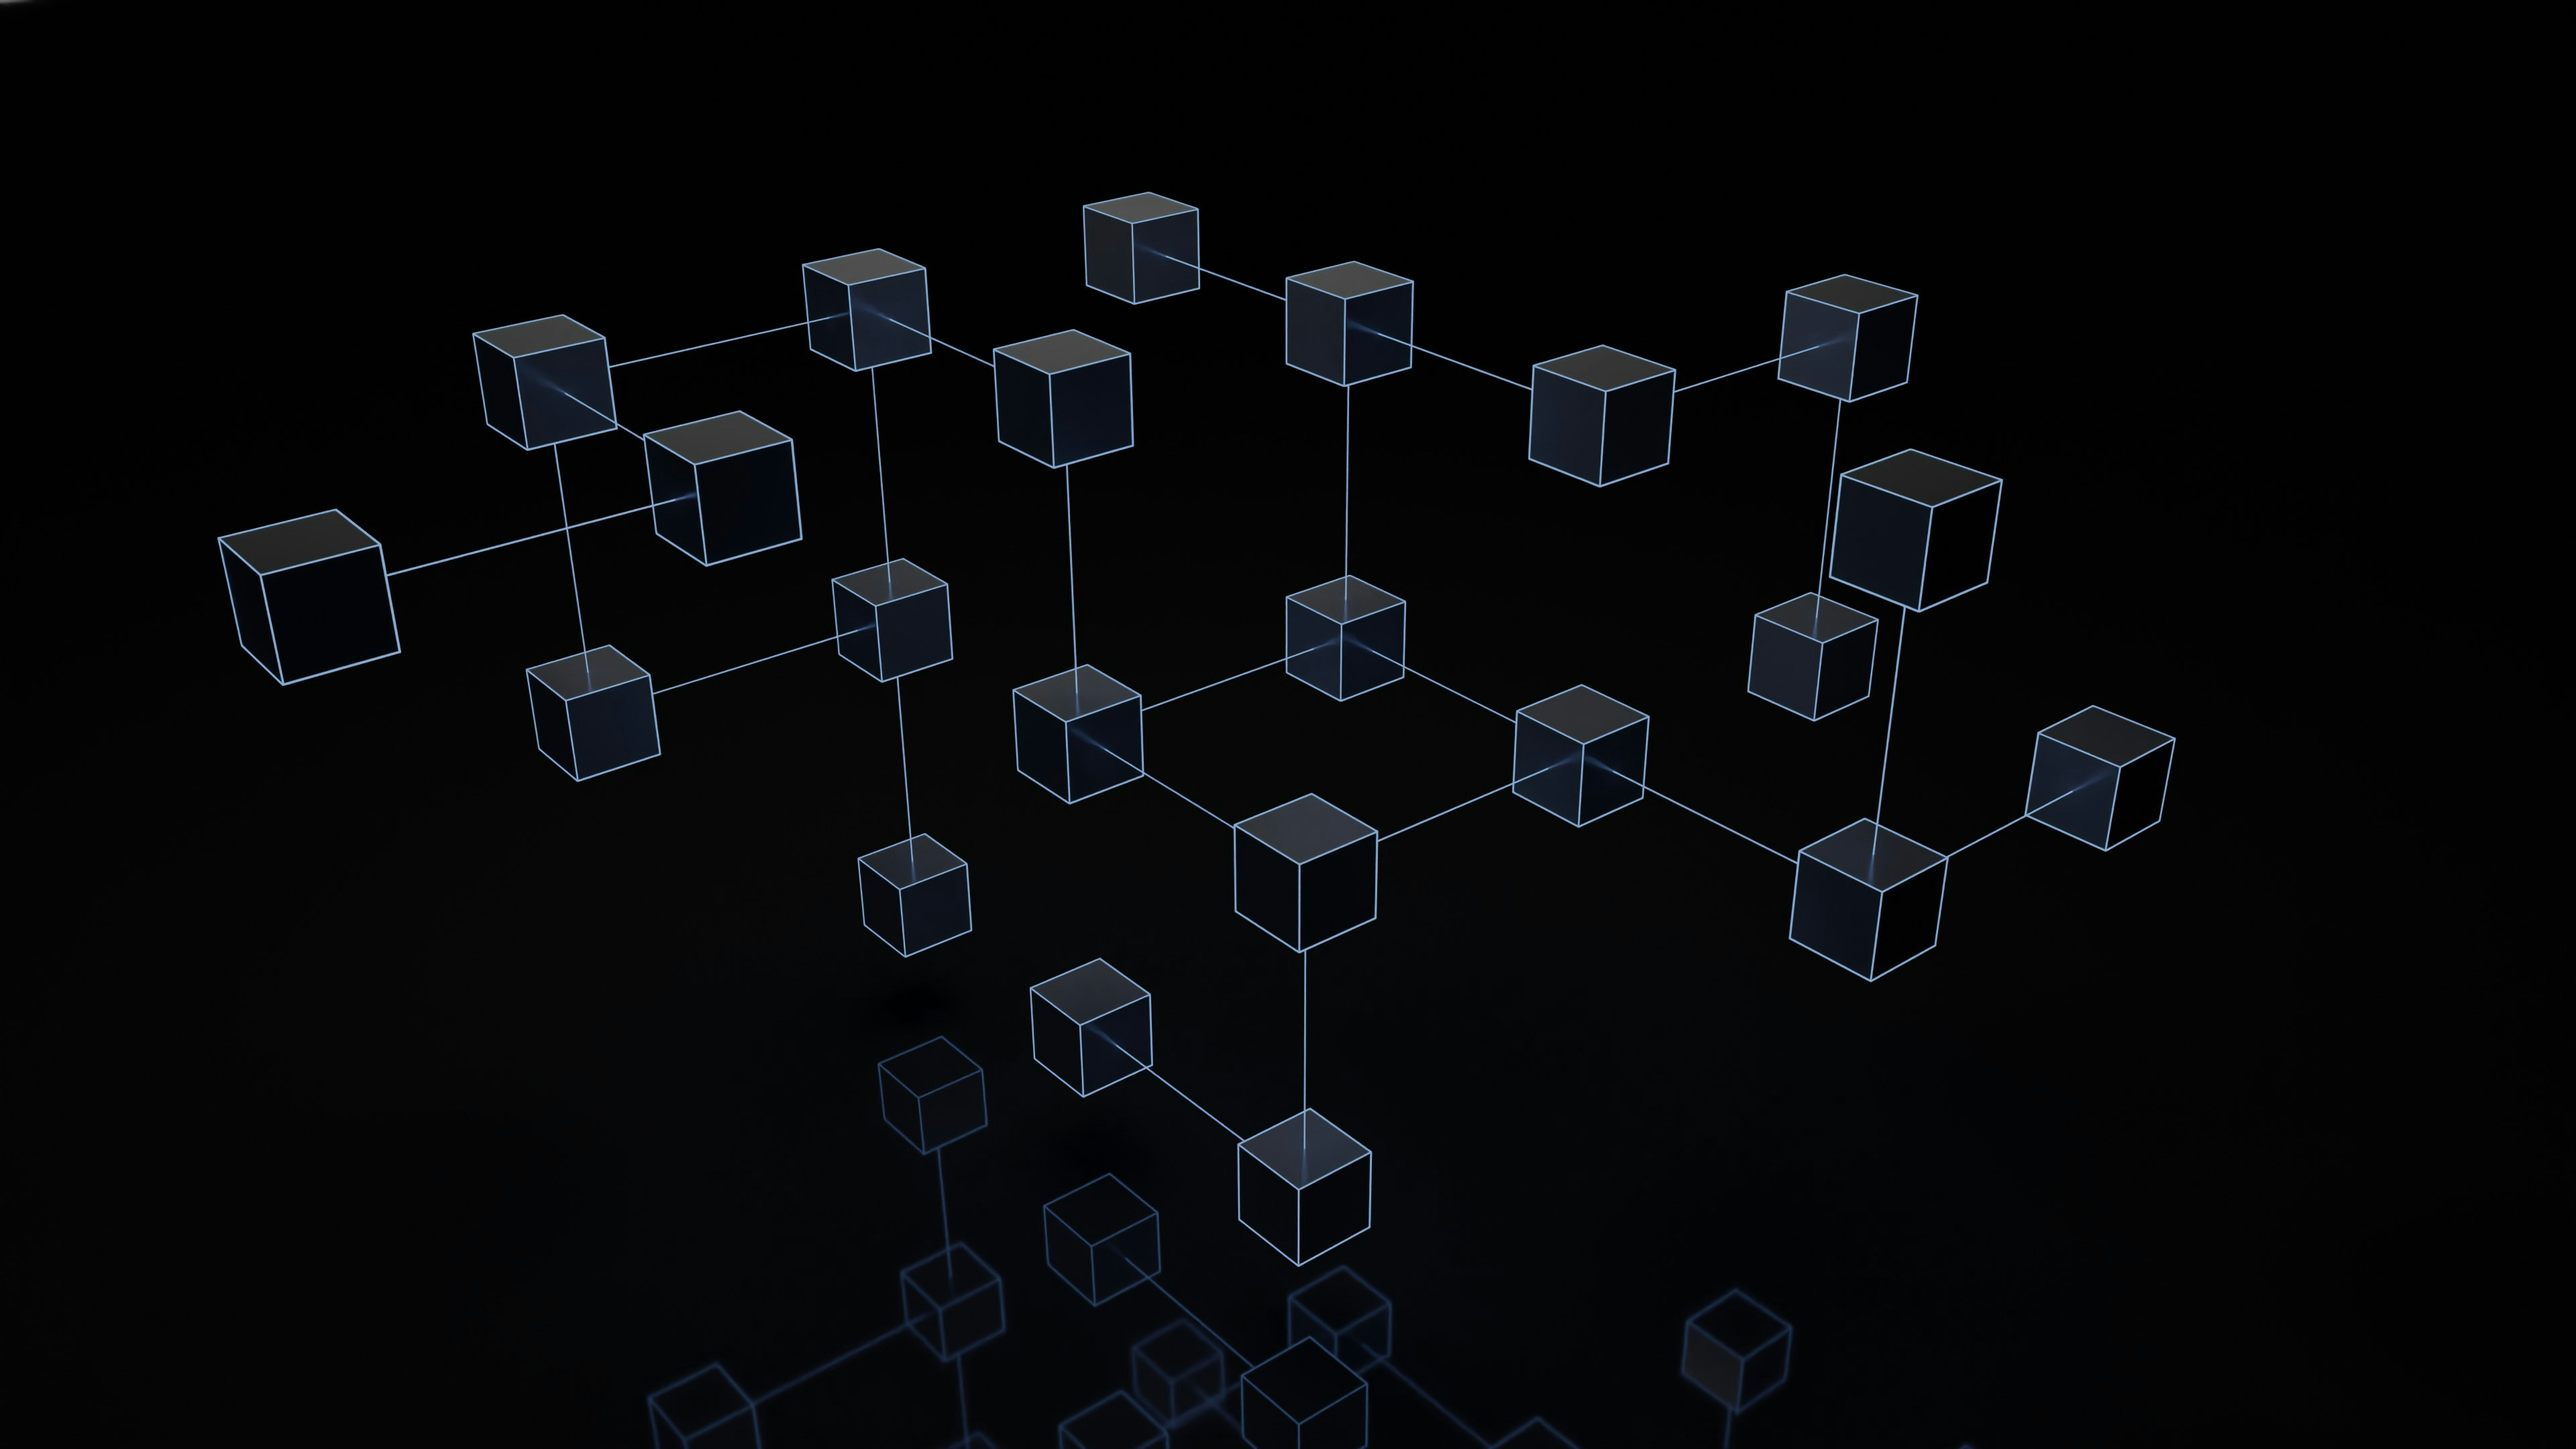
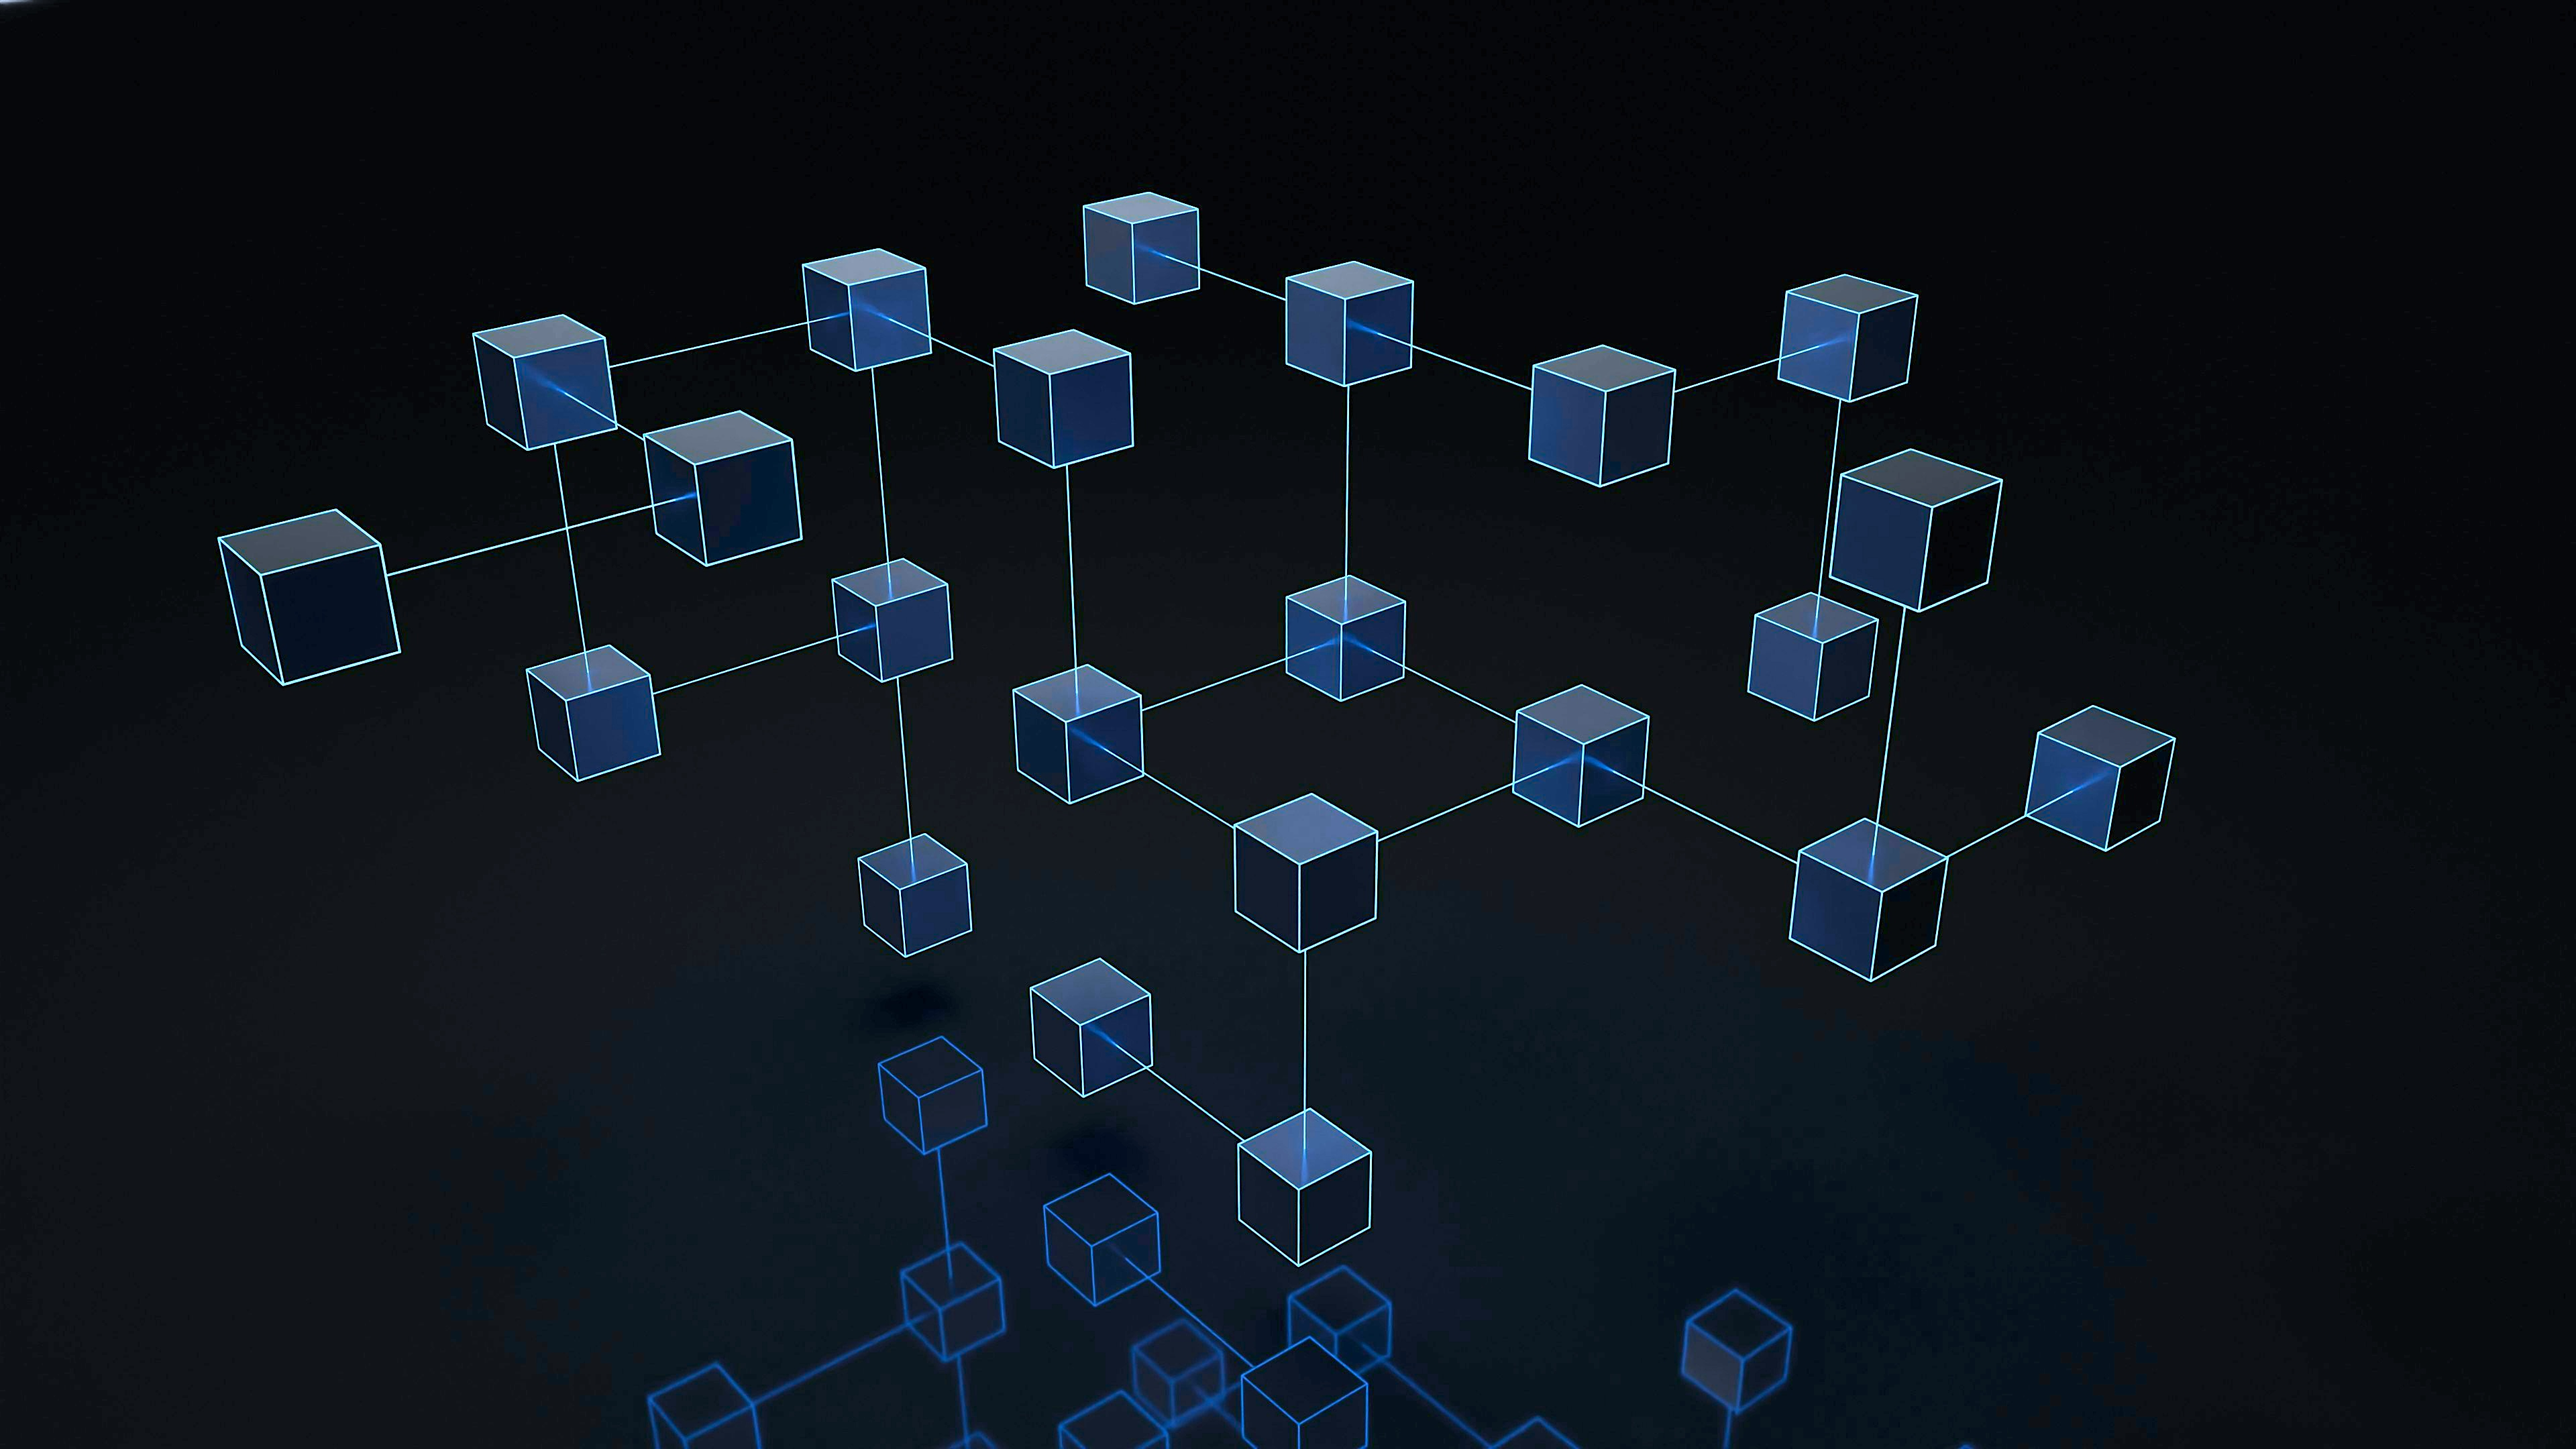
style: change img style on hover

diff --git a/web/src/pages/index.tsx b/web/src/pages/index.tsx
@@ -72,7 +72,7 @@ const Home = () => {
             alt="Workflow Image"
             width={400}
             height={200}
-            className="rounded-t-lg w-full h-32 object-cover"
+            className="rounded-t-lg w-full h-32 object-cover filter grayscale hover:grayscale-0 transition-all duration-300"
           />
           <CardHeader>
             <CardTitle>Automate Your Workflow</CardTitle>
@@ -89,11 +89,11 @@ const Home = () => {
         </Card>
         <Card className="flex flex-col transition-transform duration-500 hover:rotate-1 hover:scale-105 transform-gpu ">
           <Image
-            src="/collab.jpg"
+            src="/collab1.jpg"
             alt="Collaboration Image"
             width={400}
             height={200}
-            className="rounded-t-lg w-full h-32 object-cover"
+            className="rounded-t-lg w-full h-32 object-cover filter grayscale hover:grayscale-0 transition-all duration-300"
           />
           <CardHeader>
             <CardTitle>Enhance Collaboration</CardTitle>
@@ -131,11 +131,11 @@ const Home = () => {
         </Card>
         <Card className="flex flex-col md:col-span-2 transition-transform duration-500 hover:rotate-1 hover:scale-105 transform-gpu">
           <Image
-            src="/document.jpg"
+            src="/document1.jpg"
             alt="Documentation Image"
             width={400}
             height={200}
-            className="rounded-t-lg w-full h-32 object-cover"
+            className="rounded-t-lg w-full h-32 object-cover filter grayscale hover:grayscale-0 transition-all duration-300"
           />
           <CardHeader>
             <CardTitle>Documentation & Guides</CardTitle>
